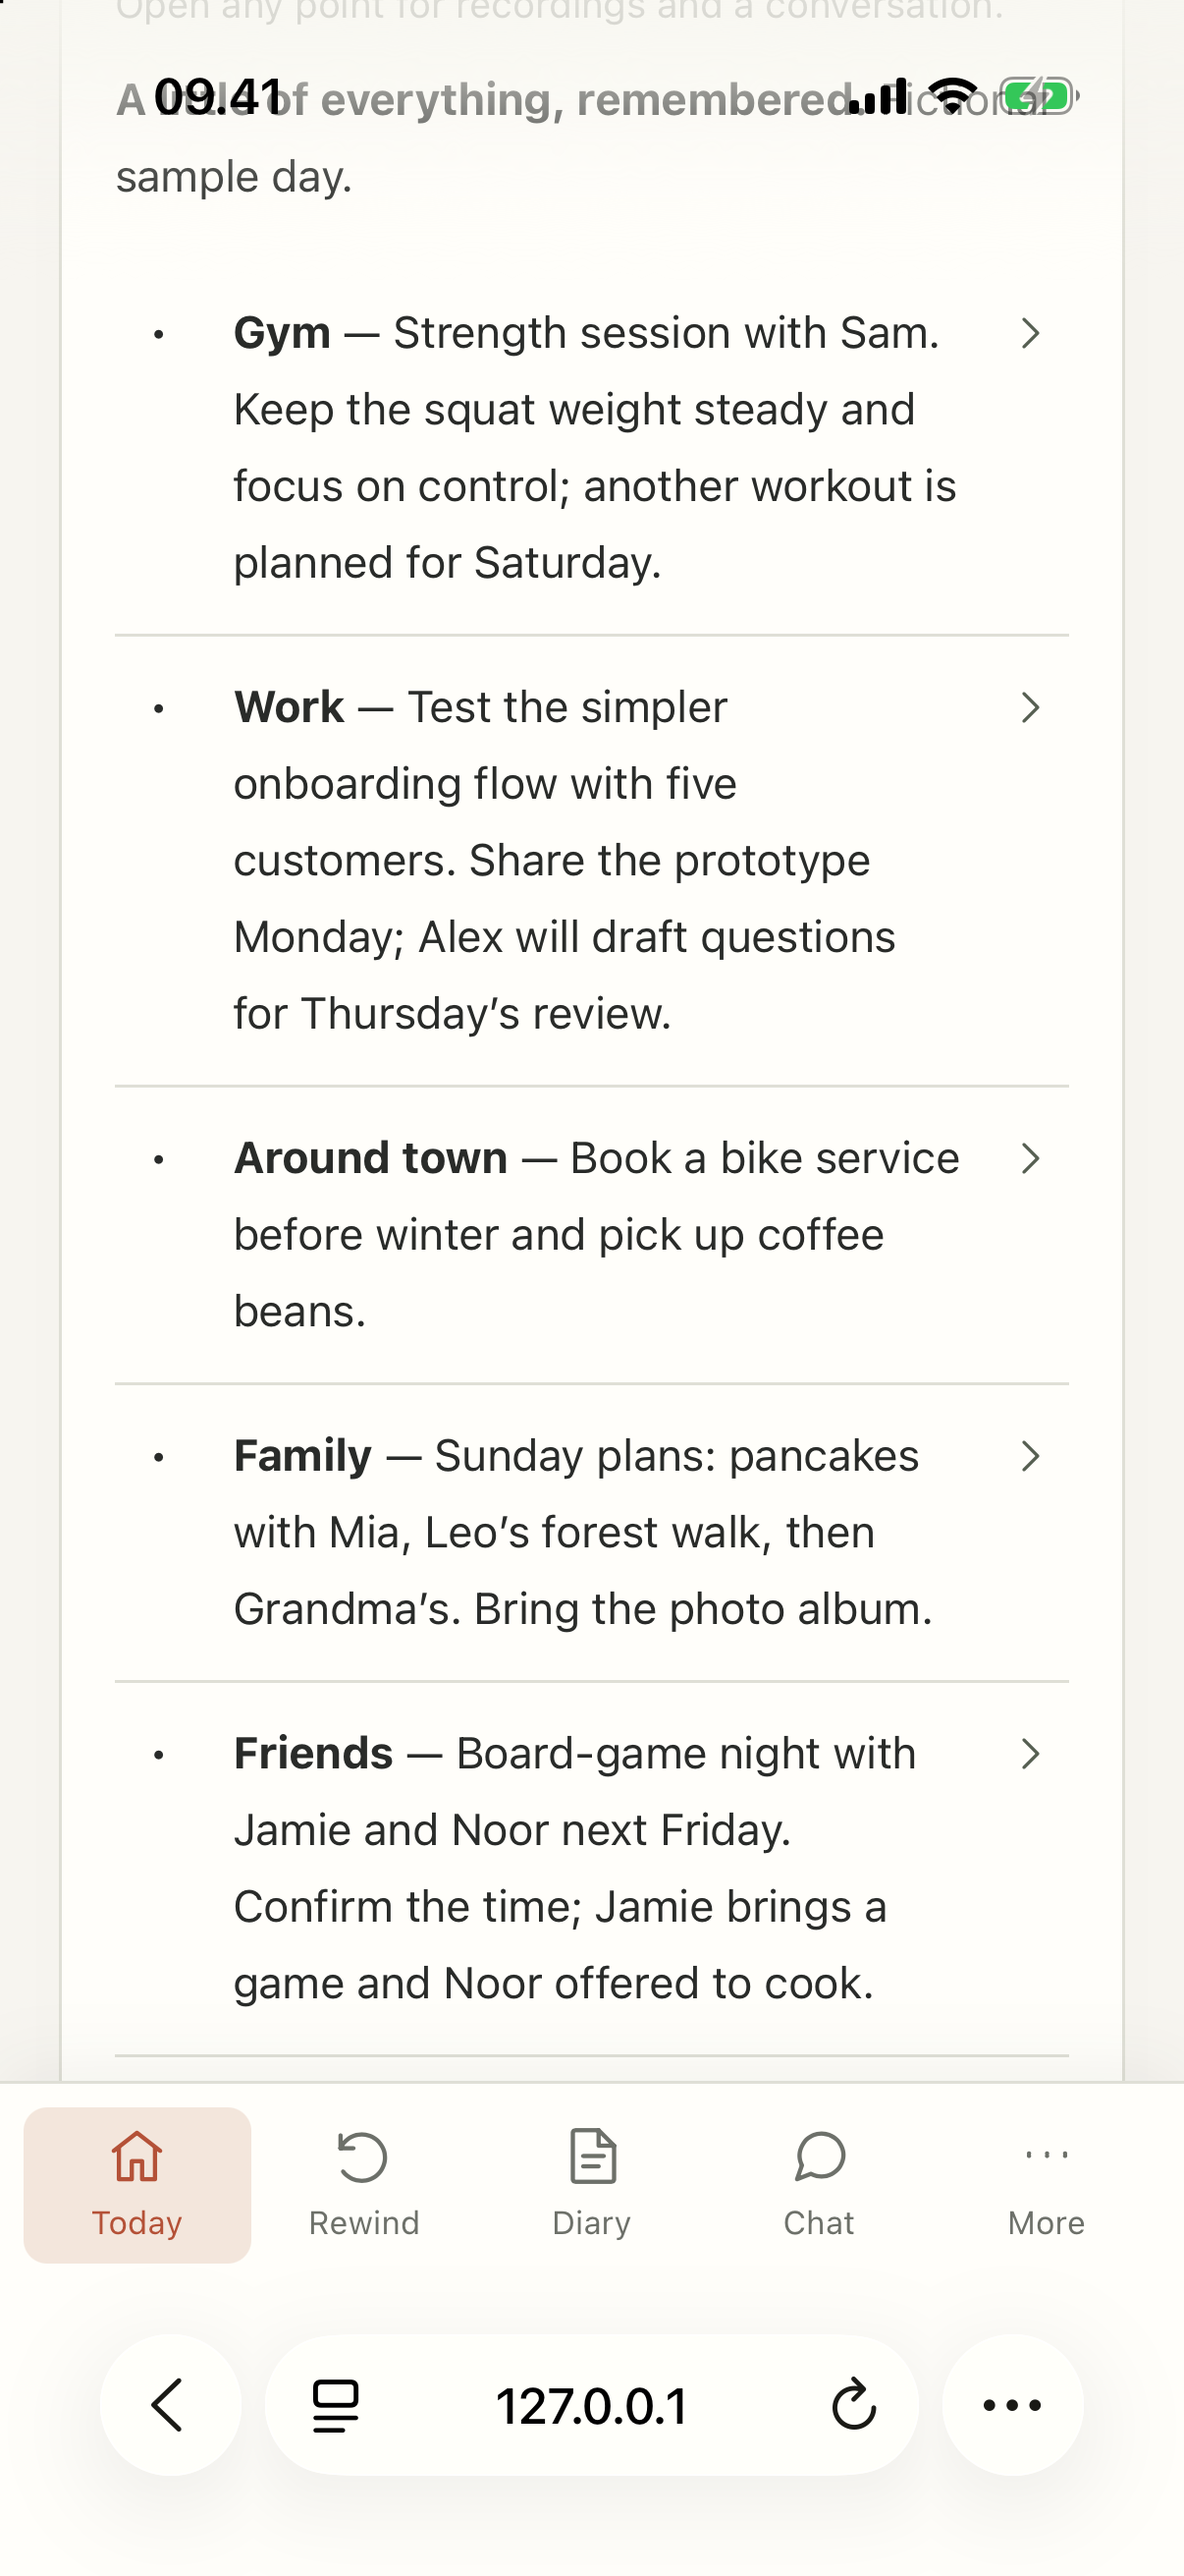
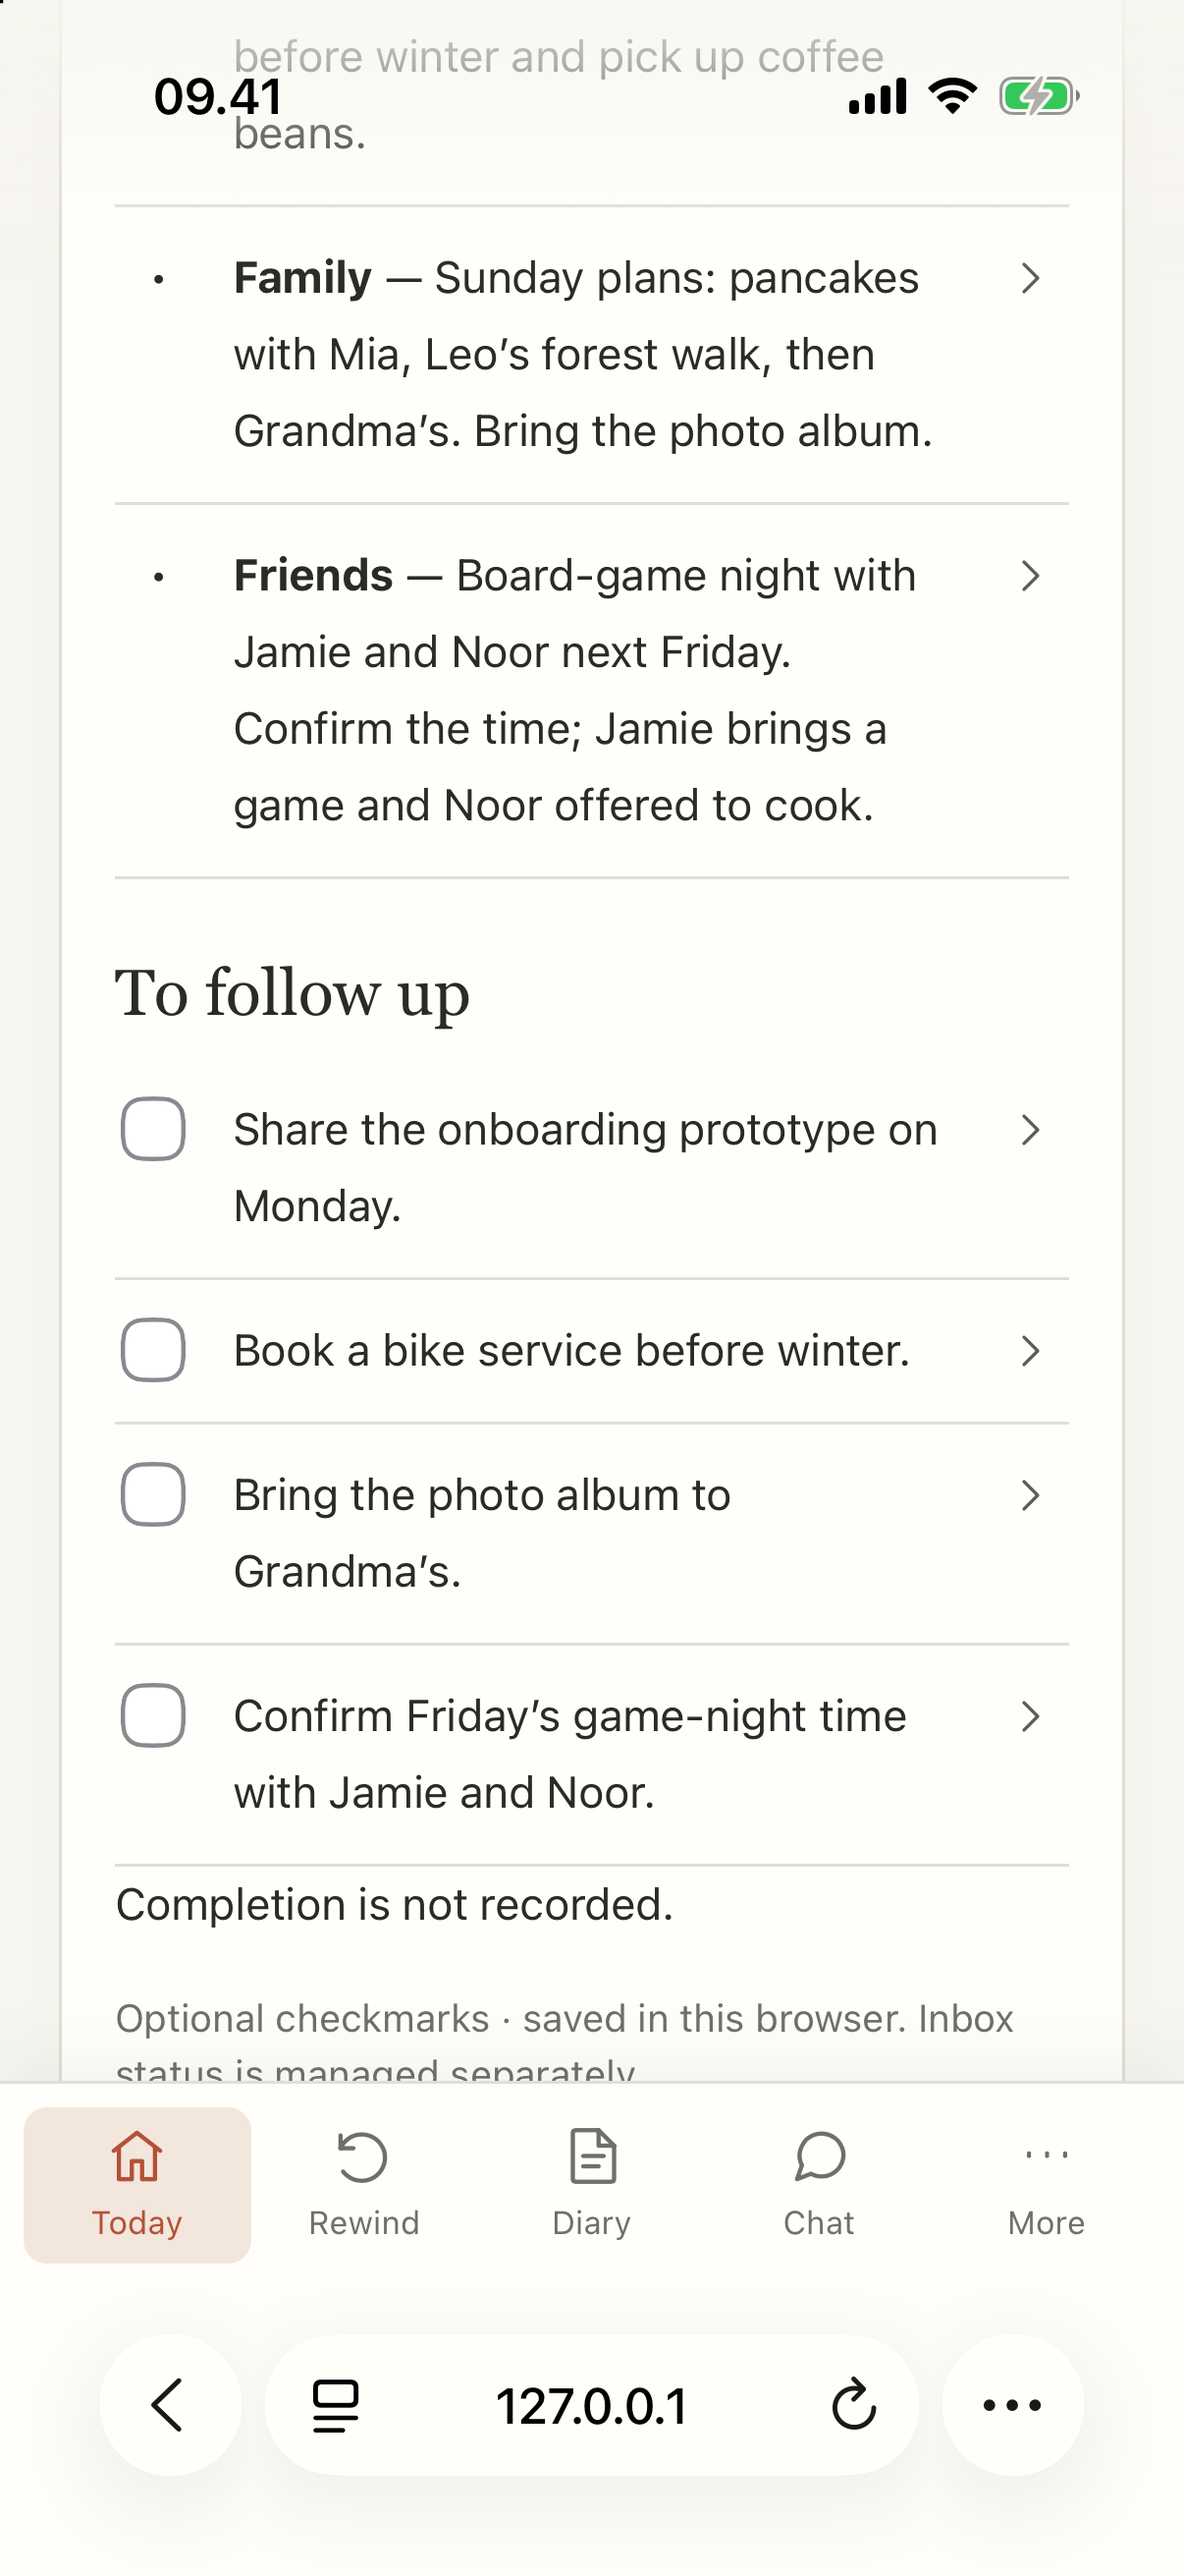
Refresh Today screenshots for interactive recaps

diff --git a/README.md b/README.md
@@ -7,12 +7,12 @@ Direct capture needs no Omi account or cloud AI subscription. Existing hosted Om
 <table>
 <tr><th>Desktop</th><th>iPhone 17 · Safari</th></tr>
 <tr>
-<td width="67%" valign="top"><img src="docs/images/web-app.png" alt="Omi Local Today dashboard with a sample day recap and recordings from the gym, work, errands, family time, and dinner with friends"></td>
-<td width="33%" valign="top"><img src="docs/images/web-app-iphone17.png" alt="Today day recap in Safari on iPhone 17, using the same fictional gym, work, errands, family, and friends recordings" width="302"></td>
+<td width="67%" valign="top"><img src="docs/images/web-app.png" alt="Today dashboard with an expanded family recap point, its related recording and chat button, individual follow-up checkboxes, and a timeline spanning gym, work, errands, family, and friends"></td>
+<td width="33%" valign="top"><img src="docs/images/web-app-iphone17.png" alt="Today in Safari on iPhone 17, showing the same fictional family and friends recap points and four individual follow-up checkboxes" width="302"></td>
 </tr>
 </table>
 
-*The Today dashboard on desktop and iPhone 17, with the same fictional recordings from the gym, work, everyday errands, home with family, and time out with friends.*
+*Today on desktop and iPhone 17: expandable recap points with related recordings and a chat action, plus individual follow-up checkboxes. Both views use the same fictional recordings from the gym, work, everyday errands, home with family, and time out with friends.*
 
 Phone views were captured in Safari on an iPhone 17 simulator running iOS 26.5. Longer pages are scrolled to show their sample content.
 
